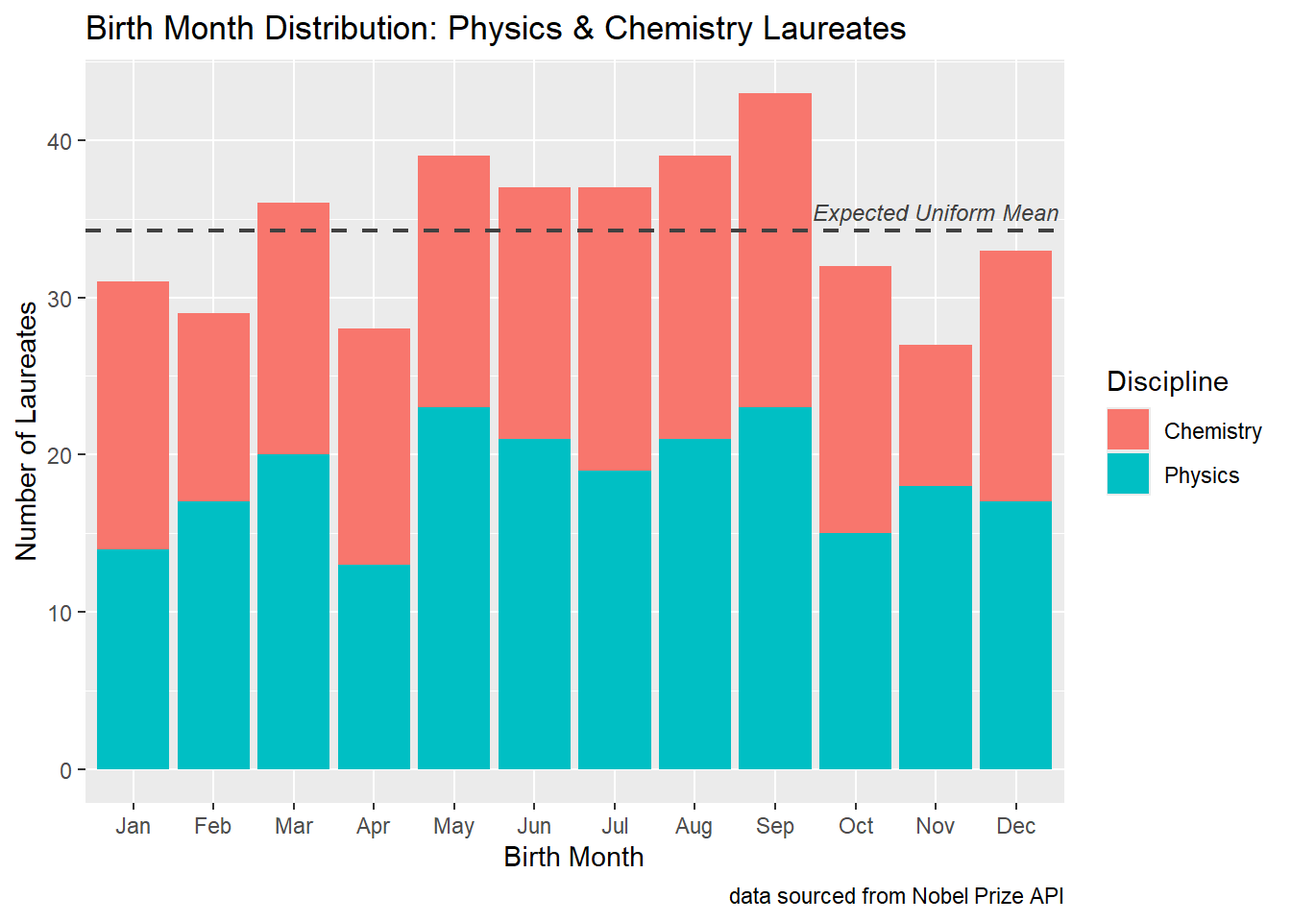
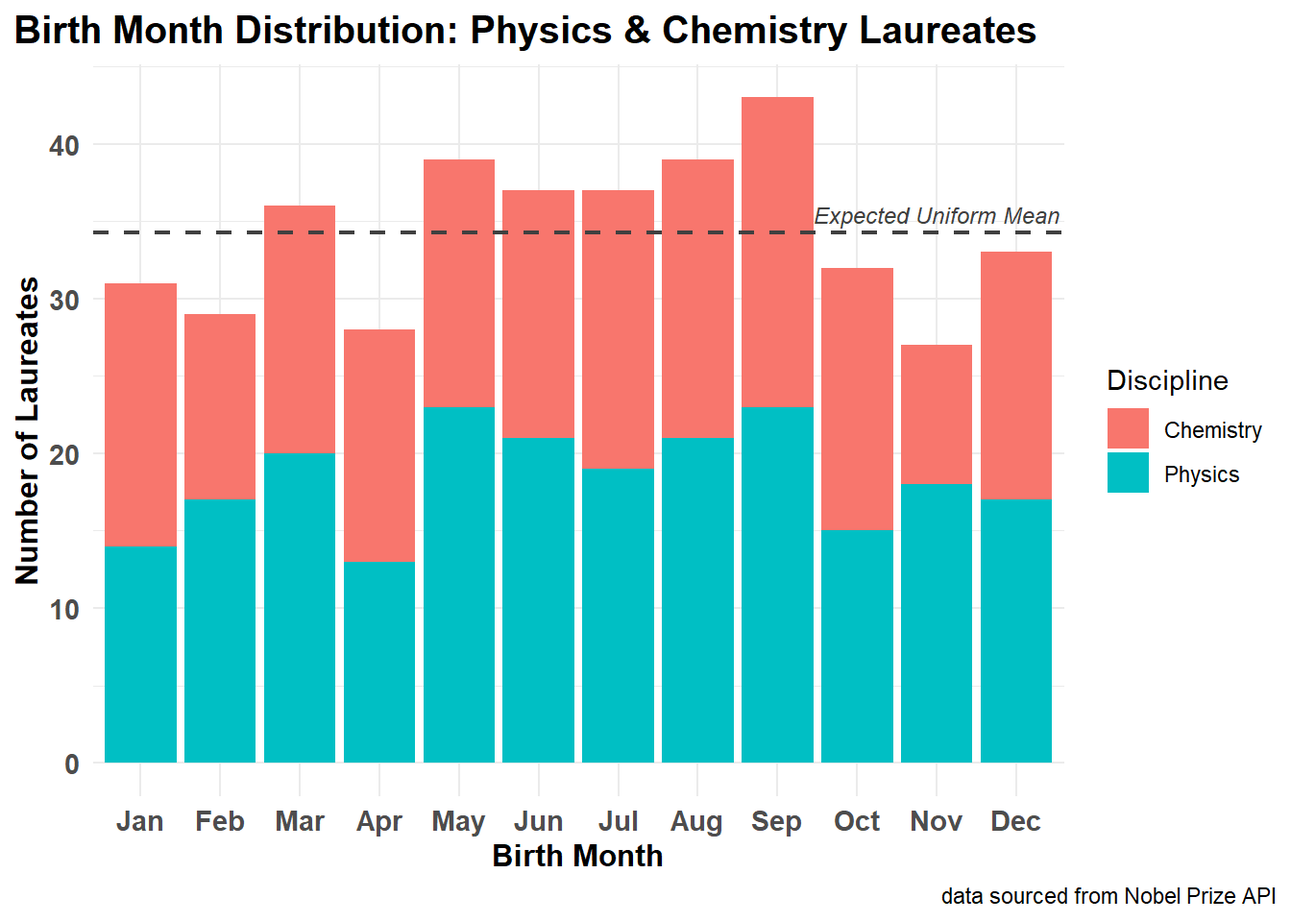
codebase render

diff --git a/Assignment10B-KCH-Codebase.html b/Assignment10B-KCH-Codebase.html
@@ -9,7 +9,7 @@
 <meta name="author" content="Kailot C. Harris">
 <meta name="dcterms.date" content="2026-11-03">
 
-<title>Assignment10B-KCH-Approach</title>
+<title>Assignment10B-KCH-Codebase</title>
 <style>
 /* Default styles provided by pandoc.
 ** See https://pandoc.org/MANUAL.html#variables-for-html for config info.
@@ -327,7 +327,10 @@ window.Quarto = {
   </ul></li>
   </ul></li>
   <li><a href="#findings-and-recommendations" id="toc-findings-and-recommendations" class="nav-link" data-scroll-target="#findings-and-recommendations">Findings and Recommendations</a></li>
-  <li><a href="#cited-works" id="toc-cited-works" class="nav-link" data-scroll-target="#cited-works">Cited Works</a></li>
+  <li><a href="#cited-works" id="toc-cited-works" class="nav-link" data-scroll-target="#cited-works">Cited Works</a>
+  <ul class="collapse">
+  <li><a href="#generative-ai-usage" id="toc-generative-ai-usage" class="nav-link" data-scroll-target="#generative-ai-usage">Generative AI Usage</a></li>
+  </ul></li>
   </ul>
 </nav>
 </div>
@@ -336,7 +339,7 @@ window.Quarto = {
 
 <header id="title-block-header" class="quarto-title-block default">
 <div class="quarto-title">
-<h1 class="title">Assignment10B-KCH-Approach</h1>
+<h1 class="title">Assignment10B-KCH-Codebase</h1>
 </div>
 
 
@@ -367,9 +370,9 @@ window.Quarto = {
 
 <section id="introduction-and-overview" class="level1">
 <h1>Introduction and Overview</h1>
-<p>In this assignment, structured web data acquisition and JSON data reshaping are applied to analyze scientific history via the Nobel Prize Developer Zone API <span class="citation" data-cites="nobelprizeAPI">(<a href="#ref-nobelprizeAPI" role="doc-biblioref">Nobel Prize Outreach AB 2026</a>)</span>.</p>
-<p>Using the Version 2.1 REST API, laureate-level records across the physical sciences (specifically Physics and Chemistry) are ingested. The raw data are parsed from hierarchical, nested JSON documents into rectangular, tidy data frames using the <code>jsonlite</code> <span class="citation" data-cites="jsonlite">(<a href="#ref-jsonlite" role="doc-biblioref">Ooms 2023</a>)</span> and <code>tidyverse</code> <span class="citation" data-cites="tidyverse">(<a href="#ref-tidyverse" role="doc-biblioref">Wickham et al. 2019</a>)</span> ecosystems.</p>
-<p>Beyond standard frequency counts, this study investigates historical mobility, collaboration, and career trajectories of famed scientists. Specifically, this work aims to examine scientific migration (“brain drain”), age distributions at time of recognition, institutional concentration of awards, seasonal birth distributions, and repeat prize winners.</p>
+<p>In this assignment, structured web data acquisition and JSON data reshaping are applied to analyze scientific history via the <a href="https://www.nobelprize.org/about/developer-zone-2/">Nobel Prize Developer Zone API</a> <span class="citation" data-cites="nobelprizeAPI">(<a href="#ref-nobelprizeAPI" role="doc-biblioref">Nobel Prize Outreach AB 2026</a>)</span>.</p>
+<p>Using the Version 2.1 REST API, laureate records across Physics and Chemistry are ingested. The raw data are parsed from hierarchical, nested JSON documents into rectangular, tidy data frames using the <code>jsonlite</code> <span class="citation" data-cites="jsonlite">(<a href="#ref-jsonlite" role="doc-biblioref">Ooms 2023</a>)</span> and <code>tidyverse</code> <span class="citation" data-cites="tidyverse">(<a href="#ref-tidyverse" role="doc-biblioref">Wickham et al. 2019</a>)</span> ecosystems.</p>
+<p>Beyond standard frequency counts, this study investigates five data-driven questions examinining scientific migration (“brain drain”), age distributions at time of recognition, institutional concentration of awards, seasonal birth distributions, and repeat prize winners.</p>
 </section>
 <section id="approach" class="level1">
 <h1>Approach</h1>
@@ -465,7 +468,7 @@ window.Quarto = {
 <span id="cb6-5"><a href="#cb6-5" aria-hidden="true" tabindex="-1"></a>         <span class="at">birth_country =</span> birth<span class="sc">$</span>place<span class="sc">$</span>country<span class="sc">$</span>en,</span>
 <span id="cb6-6"><a href="#cb6-6" aria-hidden="true" tabindex="-1"></a>         <span class="at">nobelPrizes =</span> nobelPrizes,</span>
 <span id="cb6-7"><a href="#cb6-7" aria-hidden="true" tabindex="-1"></a>         <span class="at">.keep =</span> <span class="st">"none"</span></span>
-<span id="cb6-8"><a href="#cb6-8" aria-hidden="true" tabindex="-1"></a>          ) <span class="sc">|&gt;</span> </span>
+<span id="cb6-8"><a href="#cb6-8" aria-hidden="true" tabindex="-1"></a>  ) <span class="sc">|&gt;</span> </span>
 <span id="cb6-9"><a href="#cb6-9" aria-hidden="true" tabindex="-1"></a>  <span class="fu">unnest</span>(nobelPrizes) <span class="sc">|&gt;</span> </span>
 <span id="cb6-10"><a href="#cb6-10" aria-hidden="true" tabindex="-1"></a>  <span class="fu">mutate</span>(</span>
 <span id="cb6-11"><a href="#cb6-11" aria-hidden="true" tabindex="-1"></a>    <span class="at">id =</span> id,</span>
@@ -481,7 +484,7 @@ window.Quarto = {
 </details>
 </div>
 <p>Handling the <code>affiliations</code> column presented a challenge: some laureates had no recorded institution, while others had multiple appointments across different universities. Unnesting this column directly caused row duplication and indexing errors. To fix this, <code>purrr::map_chr()</code> was used to check whether each row was a valid data frame with a name column before pulling the primary English name. If no valid affiliation existed, the function safely returned <code>NA_character_</code>.</p>
-<p>Next, date metrics were derived. When using <code>lubridate::ymd()</code> to parse birth dates, a warning was generated because 11 historical records only contained birth years rather than full dates. To eliminate this warning without dropping rows, base R’s <code>format(as.Date(birth_date), "%b")</code> was used to extract birth months, and the resulting vector was converted to an ordered factor using <code>month.abb</code>. Finally, each laureate’s age at the time of their award and the award decade were computed.</p>
+<p>Next, date metrics were derived. Rather than relying on <code>lubridate::ymd()</code> (which generated warnings on 11 historical records containing only four-digit years) base R’s <code>format(as.Date(birth_date), "%b")</code> and <code>month.abb</code> were used. This cleanly extracts birth months as an ordered factor while preserving missing records as <code>NA</code> without throwing warnings. Finally, each laureate’s age at the time of award and award decade were calculated using basic date arithmetic.</p>
 <div class="cell">
 <details class="code-fold">
 <summary>Code</summary>
@@ -1218,52 +1221,73 @@ window.Quarto = {
 <summary>Code</summary>
 <div class="code-copy-outer-scaffold"><div class="sourceCode cell-code" id="cb20"><pre class="sourceCode r code-with-copy"><code class="sourceCode r"><span id="cb20-1"><a href="#cb20-1" aria-hidden="true" tabindex="-1"></a>expected_per_month <span class="ot">&lt;-</span> <span class="fu">sum</span>(monthly_births<span class="sc">$</span>count) <span class="sc">/</span> <span class="dv">12</span></span>
 <span id="cb20-2"><a href="#cb20-2" aria-hidden="true" tabindex="-1"></a></span>
-<span id="cb20-3"><a href="#cb20-3" aria-hidden="true" tabindex="-1"></a>chisq_res <span class="ot">&lt;-</span> <span class="fu">chisq.test</span>(monthly_totals<span class="sc">$</span>total)</span>
-<span id="cb20-4"><a href="#cb20-4" aria-hidden="true" tabindex="-1"></a></span>
-<span id="cb20-5"><a href="#cb20-5" aria-hidden="true" tabindex="-1"></a>chisq_res</span></code></pre></div><button title="Copy to Clipboard" class="code-copy-button"><i class="bi"></i></button></div>
-</details>
-<div class="cell-output cell-output-stdout">
-<pre><code>
-    Chi-squared test for given probabilities
-
-data:  monthly_totals$total
-X-squared = 8.0657, df = 11, p-value = 0.7074</code></pre>
-</div>
-<details class="code-fold">
-<summary>Code</summary>
-<div class="code-copy-outer-scaffold"><div class="sourceCode cell-code" id="cb22"><pre class="sourceCode r code-with-copy"><code class="sourceCode r"><span id="cb22-1"><a href="#cb22-1" aria-hidden="true" tabindex="-1"></a>monthly_births <span class="sc">|&gt;</span> <span class="fu">ggplot</span>(<span class="fu">aes</span>(<span class="at">x =</span> birth_month, </span>
-<span id="cb22-2"><a href="#cb22-2" aria-hidden="true" tabindex="-1"></a>                             <span class="at">y =</span> count, </span>
-<span id="cb22-3"><a href="#cb22-3" aria-hidden="true" tabindex="-1"></a>                             <span class="at">fill =</span> category)) <span class="sc">+</span></span>
-<span id="cb22-4"><a href="#cb22-4" aria-hidden="true" tabindex="-1"></a>  <span class="fu">geom_col</span>() <span class="sc">+</span></span>
-<span id="cb22-5"><a href="#cb22-5" aria-hidden="true" tabindex="-1"></a>  <span class="fu">geom_hline</span>(</span>
-<span id="cb22-6"><a href="#cb22-6" aria-hidden="true" tabindex="-1"></a>    <span class="at">yintercept =</span> expected_per_month,</span>
-<span id="cb22-7"><a href="#cb22-7" aria-hidden="true" tabindex="-1"></a>    <span class="at">linetype =</span> <span class="st">"dashed"</span>,</span>
-<span id="cb22-8"><a href="#cb22-8" aria-hidden="true" tabindex="-1"></a>    <span class="at">color =</span> <span class="st">"#404040"</span>,</span>
-<span id="cb22-9"><a href="#cb22-9" aria-hidden="true" tabindex="-1"></a>    <span class="at">linewidth =</span> <span class="fl">0.8</span></span>
-<span id="cb22-10"><a href="#cb22-10" aria-hidden="true" tabindex="-1"></a>  ) <span class="sc">+</span></span>
-<span id="cb22-11"><a href="#cb22-11" aria-hidden="true" tabindex="-1"></a>  <span class="fu">annotate</span>(</span>
-<span id="cb22-12"><a href="#cb22-12" aria-hidden="true" tabindex="-1"></a>    <span class="st">"text"</span>,</span>
-<span id="cb22-13"><a href="#cb22-13" aria-hidden="true" tabindex="-1"></a>    <span class="at">x =</span> <span class="fl">11.0</span>,</span>
-<span id="cb22-14"><a href="#cb22-14" aria-hidden="true" tabindex="-1"></a>    <span class="at">y =</span> expected_per_month <span class="sc">+</span> <span class="fl">1.2</span>,</span>
-<span id="cb22-15"><a href="#cb22-15" aria-hidden="true" tabindex="-1"></a>    <span class="at">label =</span> <span class="st">"Expected Uniform Mean"</span>,</span>
-<span id="cb22-16"><a href="#cb22-16" aria-hidden="true" tabindex="-1"></a>    <span class="at">color =</span> <span class="st">"#404040"</span>,</span>
-<span id="cb22-17"><a href="#cb22-17" aria-hidden="true" tabindex="-1"></a>    <span class="at">size =</span> <span class="fl">3.2</span>,</span>
-<span id="cb22-18"><a href="#cb22-18" aria-hidden="true" tabindex="-1"></a>    <span class="at">fontface =</span> <span class="st">"italic"</span></span>
-<span id="cb22-19"><a href="#cb22-19" aria-hidden="true" tabindex="-1"></a>  ) <span class="sc">+</span></span>
-<span id="cb22-20"><a href="#cb22-20" aria-hidden="true" tabindex="-1"></a>  <span class="fu">labs</span>(</span>
-<span id="cb22-21"><a href="#cb22-21" aria-hidden="true" tabindex="-1"></a>    <span class="at">title =</span> <span class="st">"Birth Month Distribution: Physics &amp; Chemistry Laureates"</span>,</span>
-<span id="cb22-22"><a href="#cb22-22" aria-hidden="true" tabindex="-1"></a>    <span class="at">caption =</span> <span class="st">"data sourced from Nobel Prize API"</span>,</span>
-<span id="cb22-23"><a href="#cb22-23" aria-hidden="true" tabindex="-1"></a>    <span class="at">x =</span> <span class="st">"Birth Month"</span>,</span>
-<span id="cb22-24"><a href="#cb22-24" aria-hidden="true" tabindex="-1"></a>    <span class="at">y =</span> <span class="st">"Number of Laureates"</span>,</span>
-<span id="cb22-25"><a href="#cb22-25" aria-hidden="true" tabindex="-1"></a>    <span class="at">fill =</span> <span class="st">"Discipline"</span></span>
-<span id="cb22-26"><a href="#cb22-26" aria-hidden="true" tabindex="-1"></a>  )</span></code></pre></div><button title="Copy to Clipboard" class="code-copy-button"><i class="bi"></i></button></div>
+<span id="cb20-3"><a href="#cb20-3" aria-hidden="true" tabindex="-1"></a>monthly_births <span class="sc">|&gt;</span> <span class="fu">ggplot</span>(<span class="fu">aes</span>(<span class="at">x =</span> birth_month, </span>
+<span id="cb20-4"><a href="#cb20-4" aria-hidden="true" tabindex="-1"></a>                             <span class="at">y =</span> count, </span>
+<span id="cb20-5"><a href="#cb20-5" aria-hidden="true" tabindex="-1"></a>                             <span class="at">fill =</span> category)) <span class="sc">+</span></span>
+<span id="cb20-6"><a href="#cb20-6" aria-hidden="true" tabindex="-1"></a>  <span class="fu">geom_col</span>() <span class="sc">+</span></span>
+<span id="cb20-7"><a href="#cb20-7" aria-hidden="true" tabindex="-1"></a>  <span class="fu">geom_hline</span>(</span>
+<span id="cb20-8"><a href="#cb20-8" aria-hidden="true" tabindex="-1"></a>    <span class="at">yintercept =</span> expected_per_month,</span>
+<span id="cb20-9"><a href="#cb20-9" aria-hidden="true" tabindex="-1"></a>    <span class="at">linetype =</span> <span class="st">"dashed"</span>,</span>
+<span id="cb20-10"><a href="#cb20-10" aria-hidden="true" tabindex="-1"></a>    <span class="at">color =</span> <span class="st">"#404040"</span>,</span>
+<span id="cb20-11"><a href="#cb20-11" aria-hidden="true" tabindex="-1"></a>    <span class="at">linewidth =</span> <span class="fl">0.8</span></span>
+<span id="cb20-12"><a href="#cb20-12" aria-hidden="true" tabindex="-1"></a>  ) <span class="sc">+</span></span>
+<span id="cb20-13"><a href="#cb20-13" aria-hidden="true" tabindex="-1"></a>  <span class="fu">annotate</span>(</span>
+<span id="cb20-14"><a href="#cb20-14" aria-hidden="true" tabindex="-1"></a>    <span class="st">"text"</span>,</span>
+<span id="cb20-15"><a href="#cb20-15" aria-hidden="true" tabindex="-1"></a>    <span class="at">x =</span> <span class="fl">11.0</span>,</span>
+<span id="cb20-16"><a href="#cb20-16" aria-hidden="true" tabindex="-1"></a>    <span class="at">y =</span> expected_per_month <span class="sc">+</span> <span class="fl">1.2</span>,</span>
+<span id="cb20-17"><a href="#cb20-17" aria-hidden="true" tabindex="-1"></a>    <span class="at">label =</span> <span class="st">"Expected Uniform Mean"</span>,</span>
+<span id="cb20-18"><a href="#cb20-18" aria-hidden="true" tabindex="-1"></a>    <span class="at">color =</span> <span class="st">"#404040"</span>,</span>
+<span id="cb20-19"><a href="#cb20-19" aria-hidden="true" tabindex="-1"></a>    <span class="at">size =</span> <span class="fl">3.2</span>,</span>
+<span id="cb20-20"><a href="#cb20-20" aria-hidden="true" tabindex="-1"></a>    <span class="at">fontface =</span> <span class="st">"italic"</span></span>
+<span id="cb20-21"><a href="#cb20-21" aria-hidden="true" tabindex="-1"></a>  ) <span class="sc">+</span></span>
+<span id="cb20-22"><a href="#cb20-22" aria-hidden="true" tabindex="-1"></a>  <span class="fu">labs</span>(</span>
+<span id="cb20-23"><a href="#cb20-23" aria-hidden="true" tabindex="-1"></a>    <span class="at">title =</span> <span class="st">"Birth Month Distribution: Physics &amp; Chemistry Laureates"</span>,</span>
+<span id="cb20-24"><a href="#cb20-24" aria-hidden="true" tabindex="-1"></a>    <span class="at">caption =</span> <span class="st">"data sourced from Nobel Prize API"</span>,</span>
+<span id="cb20-25"><a href="#cb20-25" aria-hidden="true" tabindex="-1"></a>    <span class="at">x =</span> <span class="st">"Birth Month"</span>,</span>
+<span id="cb20-26"><a href="#cb20-26" aria-hidden="true" tabindex="-1"></a>    <span class="at">y =</span> <span class="st">"Number of Laureates"</span>,</span>
+<span id="cb20-27"><a href="#cb20-27" aria-hidden="true" tabindex="-1"></a>    <span class="at">fill =</span> <span class="st">"Discipline"</span></span>
+<span id="cb20-28"><a href="#cb20-28" aria-hidden="true" tabindex="-1"></a>  ) <span class="sc">+</span></span>
+<span id="cb20-29"><a href="#cb20-29" aria-hidden="true" tabindex="-1"></a>  <span class="fu">theme_standard</span>()</span></code></pre></div><button title="Copy to Clipboard" class="code-copy-button"><i class="bi"></i></button></div>
 </details>
 <div class="cell-output-display">
-<div>
+<div class="quarto-figure quarto-figure-center">
 <figure class="figure">
 <p><img src="Assignment10B-KCH-Codebase_files/figure-html/question-4-plot-1.png" class="img-fluid figure-img" width="672"></p>
+<figcaption>Birth Month Distribution: Physics &amp; Chemistry Laureates</figcaption>
 </figure>
 </div>
+</div>
+</div>
+<div class="cell">
+<details class="code-fold">
+<summary>Code</summary>
+<div class="code-copy-outer-scaffold"><div class="sourceCode cell-code" id="cb21"><pre class="sourceCode r code-with-copy"><code class="sourceCode r"><span id="cb21-1"><a href="#cb21-1" aria-hidden="true" tabindex="-1"></a>chisq_res <span class="ot">&lt;-</span> <span class="fu">chisq.test</span>(monthly_totals<span class="sc">$</span>total)</span>
+<span id="cb21-2"><a href="#cb21-2" aria-hidden="true" tabindex="-1"></a></span>
+<span id="cb21-3"><a href="#cb21-3" aria-hidden="true" tabindex="-1"></a>chisq_table <span class="ot">&lt;-</span> broom<span class="sc">::</span><span class="fu">tidy</span>(chisq_res) <span class="sc">|&gt;</span></span>
+<span id="cb21-4"><a href="#cb21-4" aria-hidden="true" tabindex="-1"></a>  <span class="fu">select</span>(<span class="st">`</span><span class="at">p_value</span><span class="st">`</span> <span class="ot">=</span> p.value,</span>
+<span id="cb21-5"><a href="#cb21-5" aria-hidden="true" tabindex="-1"></a>         <span class="st">`</span><span class="at">dof</span><span class="st">`</span> <span class="ot">=</span> parameter,</span>
+<span id="cb21-6"><a href="#cb21-6" aria-hidden="true" tabindex="-1"></a>         <span class="st">`</span><span class="at">method</span><span class="st">`</span> <span class="ot">=</span> method)</span>
+<span id="cb21-7"><a href="#cb21-7" aria-hidden="true" tabindex="-1"></a></span>
+<span id="cb21-8"><a href="#cb21-8" aria-hidden="true" tabindex="-1"></a>knitr<span class="sc">::</span><span class="fu">kable</span>(chisq_table, <span class="at">caption =</span> <span class="st">"Goodness-of-Fit Test for Monthly Birth Uniformity"</span>)</span></code></pre></div><button title="Copy to Clipboard" class="code-copy-button"><i class="bi"></i></button></div>
+</details>
+<div class="cell-output-display">
+<table class="caption-top table table-sm table-striped small">
+<caption>Goodness-of-Fit Test for Monthly Birth Uniformity</caption>
+<thead>
+<tr class="header">
+<th style="text-align: right;">p_value</th>
+<th style="text-align: right;">dof</th>
+<th style="text-align: left;">method</th>
+</tr>
+</thead>
+<tbody>
+<tr class="odd">
+<td style="text-align: right;">0.7074073</td>
+<td style="text-align: right;">11</td>
+<td style="text-align: left;">Chi-squared test for given probabilities</td>
+</tr>
+</tbody>
+</table>
 </div>
 </div>
 <p>The birth month distribution remained relatively uniform, ranging from a low of 27 laureates in November to a high of 43 in September. A Chi-square goodness-of-fit test was conducted on the monthly totals, yielding (<span class="math inline">\(\chi^2 = 8.07, p = 0.71\)</span>). Because the p-value is well above the 0.05 threshold, the null hypothesis is not rejected, confirming that birth month does not have a statistically significant relationship with winning a Nobel Prize in Physics or Chemistry.</p>
@@ -1277,37 +1301,37 @@ X-squared = 8.0657, df = 11, p-value = 0.7074</code></pre>
 <div class="cell">
 <details class="code-fold">
 <summary>Code</summary>
-<div class="code-copy-outer-scaffold"><div class="sourceCode cell-code" id="cb23"><pre class="sourceCode r code-with-copy"><code class="sourceCode r"><span id="cb23-1"><a href="#cb23-1" aria-hidden="true" tabindex="-1"></a>repeat_laureates <span class="ot">&lt;-</span> laureates_tidy <span class="sc">|&gt;</span></span>
-<span id="cb23-2"><a href="#cb23-2" aria-hidden="true" tabindex="-1"></a>  <span class="fu">group_by</span>(id, </span>
-<span id="cb23-3"><a href="#cb23-3" aria-hidden="true" tabindex="-1"></a>           known_name) <span class="sc">|&gt;</span></span>
-<span id="cb23-4"><a href="#cb23-4" aria-hidden="true" tabindex="-1"></a>  <span class="fu">filter</span>(<span class="fu">n</span>() <span class="sc">&gt;</span> <span class="dv">1</span>) <span class="sc">|&gt;</span></span>
-<span id="cb23-5"><a href="#cb23-5" aria-hidden="true" tabindex="-1"></a>  <span class="fu">arrange</span>(award_year, </span>
-<span id="cb23-6"><a href="#cb23-6" aria-hidden="true" tabindex="-1"></a>          <span class="at">.by_group =</span> <span class="cn">TRUE</span>) <span class="sc">|&gt;</span></span>
-<span id="cb23-7"><a href="#cb23-7" aria-hidden="true" tabindex="-1"></a>  <span class="fu">summarize</span>(</span>
-<span id="cb23-8"><a href="#cb23-8" aria-hidden="true" tabindex="-1"></a>    <span class="at">prizes_count =</span> <span class="fu">n</span>(),</span>
-<span id="cb23-9"><a href="#cb23-9" aria-hidden="true" tabindex="-1"></a>    <span class="at">categories =</span> <span class="fu">paste</span>(category, </span>
-<span id="cb23-10"><a href="#cb23-10" aria-hidden="true" tabindex="-1"></a>                       <span class="at">collapse =</span> <span class="st">" &amp; "</span>),</span>
-<span id="cb23-11"><a href="#cb23-11" aria-hidden="true" tabindex="-1"></a>    <span class="at">years =</span> <span class="fu">paste</span>(award_year, </span>
-<span id="cb23-12"><a href="#cb23-12" aria-hidden="true" tabindex="-1"></a>                  <span class="at">collapse =</span> <span class="st">", "</span>),</span>
-<span id="cb23-13"><a href="#cb23-13" aria-hidden="true" tabindex="-1"></a>    <span class="at">gap_years =</span> <span class="fu">max</span>(award_year) <span class="sc">-</span> <span class="fu">min</span>(award_year),</span>
-<span id="cb23-14"><a href="#cb23-14" aria-hidden="true" tabindex="-1"></a>    <span class="at">first_affiliation =</span> <span class="fu">first</span>(affiliation_name),</span>
-<span id="cb23-15"><a href="#cb23-15" aria-hidden="true" tabindex="-1"></a>    <span class="at">second_affiliation =</span> <span class="fu">last</span>(affiliation_name),</span>
-<span id="cb23-16"><a href="#cb23-16" aria-hidden="true" tabindex="-1"></a>    <span class="at">.groups =</span> <span class="st">"drop"</span></span>
-<span id="cb23-17"><a href="#cb23-17" aria-hidden="true" tabindex="-1"></a>  ) <span class="sc">|&gt;</span></span>
-<span id="cb23-18"><a href="#cb23-18" aria-hidden="true" tabindex="-1"></a>  <span class="fu">arrange</span>(<span class="fu">desc</span>(prizes_count), </span>
-<span id="cb23-19"><a href="#cb23-19" aria-hidden="true" tabindex="-1"></a>          gap_years)</span>
-<span id="cb23-20"><a href="#cb23-20" aria-hidden="true" tabindex="-1"></a></span>
-<span id="cb23-21"><a href="#cb23-21" aria-hidden="true" tabindex="-1"></a>knitr<span class="sc">::</span><span class="fu">kable</span>(</span>
-<span id="cb23-22"><a href="#cb23-22" aria-hidden="true" tabindex="-1"></a>  repeat_laureates <span class="sc">|&gt;</span> </span>
-<span id="cb23-23"><a href="#cb23-23" aria-hidden="true" tabindex="-1"></a>    <span class="fu">select</span>(</span>
-<span id="cb23-24"><a href="#cb23-24" aria-hidden="true" tabindex="-1"></a>      <span class="at">Laureate =</span> known_name,</span>
-<span id="cb23-25"><a href="#cb23-25" aria-hidden="true" tabindex="-1"></a>      <span class="st">`</span><span class="at">Prizes Won</span><span class="st">`</span> <span class="ot">=</span> prizes_count,</span>
-<span id="cb23-26"><a href="#cb23-26" aria-hidden="true" tabindex="-1"></a>      <span class="st">`</span><span class="at">Discipline(s)</span><span class="st">`</span> <span class="ot">=</span> categories,</span>
-<span id="cb23-27"><a href="#cb23-27" aria-hidden="true" tabindex="-1"></a>      <span class="st">`</span><span class="at">Years Awarded</span><span class="st">`</span> <span class="ot">=</span> years,</span>
-<span id="cb23-28"><a href="#cb23-28" aria-hidden="true" tabindex="-1"></a>      <span class="st">`</span><span class="at">Gap (Years)</span><span class="st">`</span> <span class="ot">=</span> gap_years</span>
-<span id="cb23-29"><a href="#cb23-29" aria-hidden="true" tabindex="-1"></a>    ),</span>
-<span id="cb23-30"><a href="#cb23-30" aria-hidden="true" tabindex="-1"></a>  <span class="at">caption =</span> <span class="st">"Repeat and Cross-Disciplinary Laureates in Physics and Chemistry"</span></span>
-<span id="cb23-31"><a href="#cb23-31" aria-hidden="true" tabindex="-1"></a>)</span></code></pre></div><button title="Copy to Clipboard" class="code-copy-button"><i class="bi"></i></button></div>
+<div class="code-copy-outer-scaffold"><div class="sourceCode cell-code" id="cb22"><pre class="sourceCode r code-with-copy"><code class="sourceCode r"><span id="cb22-1"><a href="#cb22-1" aria-hidden="true" tabindex="-1"></a>repeat_laureates <span class="ot">&lt;-</span> laureates_tidy <span class="sc">|&gt;</span></span>
+<span id="cb22-2"><a href="#cb22-2" aria-hidden="true" tabindex="-1"></a>  <span class="fu">group_by</span>(id, </span>
+<span id="cb22-3"><a href="#cb22-3" aria-hidden="true" tabindex="-1"></a>           known_name) <span class="sc">|&gt;</span></span>
+<span id="cb22-4"><a href="#cb22-4" aria-hidden="true" tabindex="-1"></a>  <span class="fu">filter</span>(<span class="fu">n</span>() <span class="sc">&gt;</span> <span class="dv">1</span>) <span class="sc">|&gt;</span></span>
+<span id="cb22-5"><a href="#cb22-5" aria-hidden="true" tabindex="-1"></a>  <span class="fu">arrange</span>(award_year, </span>
+<span id="cb22-6"><a href="#cb22-6" aria-hidden="true" tabindex="-1"></a>          <span class="at">.by_group =</span> <span class="cn">TRUE</span>) <span class="sc">|&gt;</span></span>
+<span id="cb22-7"><a href="#cb22-7" aria-hidden="true" tabindex="-1"></a>  <span class="fu">summarize</span>(</span>
+<span id="cb22-8"><a href="#cb22-8" aria-hidden="true" tabindex="-1"></a>    <span class="at">prizes_count =</span> <span class="fu">n</span>(),</span>
+<span id="cb22-9"><a href="#cb22-9" aria-hidden="true" tabindex="-1"></a>    <span class="at">categories =</span> <span class="fu">paste</span>(category, </span>
+<span id="cb22-10"><a href="#cb22-10" aria-hidden="true" tabindex="-1"></a>                       <span class="at">collapse =</span> <span class="st">" &amp; "</span>),</span>
+<span id="cb22-11"><a href="#cb22-11" aria-hidden="true" tabindex="-1"></a>    <span class="at">years =</span> <span class="fu">paste</span>(award_year, </span>
+<span id="cb22-12"><a href="#cb22-12" aria-hidden="true" tabindex="-1"></a>                  <span class="at">collapse =</span> <span class="st">", "</span>),</span>
+<span id="cb22-13"><a href="#cb22-13" aria-hidden="true" tabindex="-1"></a>    <span class="at">gap_years =</span> <span class="fu">max</span>(award_year) <span class="sc">-</span> <span class="fu">min</span>(award_year),</span>
+<span id="cb22-14"><a href="#cb22-14" aria-hidden="true" tabindex="-1"></a>    <span class="at">first_affiliation =</span> <span class="fu">first</span>(affiliation_name),</span>
+<span id="cb22-15"><a href="#cb22-15" aria-hidden="true" tabindex="-1"></a>    <span class="at">second_affiliation =</span> <span class="fu">last</span>(affiliation_name),</span>
+<span id="cb22-16"><a href="#cb22-16" aria-hidden="true" tabindex="-1"></a>    <span class="at">.groups =</span> <span class="st">"drop"</span></span>
+<span id="cb22-17"><a href="#cb22-17" aria-hidden="true" tabindex="-1"></a>  ) <span class="sc">|&gt;</span></span>
+<span id="cb22-18"><a href="#cb22-18" aria-hidden="true" tabindex="-1"></a>  <span class="fu">arrange</span>(<span class="fu">desc</span>(prizes_count), </span>
+<span id="cb22-19"><a href="#cb22-19" aria-hidden="true" tabindex="-1"></a>          gap_years)</span>
+<span id="cb22-20"><a href="#cb22-20" aria-hidden="true" tabindex="-1"></a></span>
+<span id="cb22-21"><a href="#cb22-21" aria-hidden="true" tabindex="-1"></a>knitr<span class="sc">::</span><span class="fu">kable</span>(</span>
+<span id="cb22-22"><a href="#cb22-22" aria-hidden="true" tabindex="-1"></a>  repeat_laureates <span class="sc">|&gt;</span> </span>
+<span id="cb22-23"><a href="#cb22-23" aria-hidden="true" tabindex="-1"></a>    <span class="fu">select</span>(</span>
+<span id="cb22-24"><a href="#cb22-24" aria-hidden="true" tabindex="-1"></a>      <span class="at">Laureate =</span> known_name,</span>
+<span id="cb22-25"><a href="#cb22-25" aria-hidden="true" tabindex="-1"></a>      <span class="st">`</span><span class="at">Prizes Won</span><span class="st">`</span> <span class="ot">=</span> prizes_count,</span>
+<span id="cb22-26"><a href="#cb22-26" aria-hidden="true" tabindex="-1"></a>      <span class="st">`</span><span class="at">Discipline(s)</span><span class="st">`</span> <span class="ot">=</span> categories,</span>
+<span id="cb22-27"><a href="#cb22-27" aria-hidden="true" tabindex="-1"></a>      <span class="st">`</span><span class="at">Years Awarded</span><span class="st">`</span> <span class="ot">=</span> years,</span>
+<span id="cb22-28"><a href="#cb22-28" aria-hidden="true" tabindex="-1"></a>      <span class="st">`</span><span class="at">Gap (Years)</span><span class="st">`</span> <span class="ot">=</span> gap_years</span>
+<span id="cb22-29"><a href="#cb22-29" aria-hidden="true" tabindex="-1"></a>    ),</span>
+<span id="cb22-30"><a href="#cb22-30" aria-hidden="true" tabindex="-1"></a>  <span class="at">caption =</span> <span class="st">"Repeat and Cross-Disciplinary Laureates in Physics and Chemistry"</span></span>
+<span id="cb22-31"><a href="#cb22-31" aria-hidden="true" tabindex="-1"></a>)</span></code></pre></div><button title="Copy to Clipboard" class="code-copy-button"><i class="bi"></i></button></div>
 </details>
 <div class="cell-output-display">
 <table class="caption-top table table-sm table-striped small">
@@ -1364,37 +1388,38 @@ X-squared = 8.0657, df = 11, p-value = 0.7074</code></pre>
 <div class="cell">
 <details class="code-fold">
 <summary>Code</summary>
-<div class="code-copy-outer-scaffold"><div class="sourceCode cell-code" id="cb24"><pre class="sourceCode r code-with-copy"><code class="sourceCode r"><span id="cb24-1"><a href="#cb24-1" aria-hidden="true" tabindex="-1"></a>p5_data <span class="ot">&lt;-</span> laureates_tidy <span class="sc">|&gt;</span></span>
-<span id="cb24-2"><a href="#cb24-2" aria-hidden="true" tabindex="-1"></a>  <span class="fu">semi_join</span>(repeat_laureates, <span class="at">by =</span> <span class="st">"id"</span>) <span class="sc">|&gt;</span></span>
-<span id="cb24-3"><a href="#cb24-3" aria-hidden="true" tabindex="-1"></a>  <span class="fu">arrange</span>(known_name, award_year)</span>
-<span id="cb24-4"><a href="#cb24-4" aria-hidden="true" tabindex="-1"></a></span>
-<span id="cb24-5"><a href="#cb24-5" aria-hidden="true" tabindex="-1"></a>p5_data <span class="sc">|&gt;</span> <span class="fu">ggplot</span>(<span class="fu">aes</span>(<span class="at">x =</span> award_year, </span>
-<span id="cb24-6"><a href="#cb24-6" aria-hidden="true" tabindex="-1"></a>                      <span class="at">y =</span> <span class="fu">fct_reorder</span>(known_name, </span>
-<span id="cb24-7"><a href="#cb24-7" aria-hidden="true" tabindex="-1"></a>                                      award_year, </span>
-<span id="cb24-8"><a href="#cb24-8" aria-hidden="true" tabindex="-1"></a>                                      min))) <span class="sc">+</span></span>
-<span id="cb24-9"><a href="#cb24-9" aria-hidden="true" tabindex="-1"></a>  <span class="fu">geom_line</span>(<span class="fu">aes</span>(<span class="at">group =</span> known_name), </span>
-<span id="cb24-10"><a href="#cb24-10" aria-hidden="true" tabindex="-1"></a>            <span class="at">color =</span> <span class="st">"gray60"</span>,</span>
-<span id="cb24-11"><a href="#cb24-11" aria-hidden="true" tabindex="-1"></a>            <span class="at">linewidth =</span> <span class="fl">1.2</span>) <span class="sc">+</span></span>
-<span id="cb24-12"><a href="#cb24-12" aria-hidden="true" tabindex="-1"></a>  <span class="fu">geom_point</span>(<span class="fu">aes</span>(<span class="at">color =</span> category), </span>
-<span id="cb24-13"><a href="#cb24-13" aria-hidden="true" tabindex="-1"></a>             <span class="at">size =</span> <span class="dv">4</span>) <span class="sc">+</span></span>
-<span id="cb24-14"><a href="#cb24-14" aria-hidden="true" tabindex="-1"></a>  <span class="fu">geom_text</span>(<span class="fu">aes</span>(<span class="at">label =</span> award_year),</span>
-<span id="cb24-15"><a href="#cb24-15" aria-hidden="true" tabindex="-1"></a>            <span class="at">vjust =</span> <span class="sc">-</span><span class="fl">1.2</span>,</span>
-<span id="cb24-16"><a href="#cb24-16" aria-hidden="true" tabindex="-1"></a>            <span class="at">hjust =</span> <span class="fl">0.5</span>,</span>
-<span id="cb24-17"><a href="#cb24-17" aria-hidden="true" tabindex="-1"></a>            <span class="at">size =</span> <span class="fl">3.3</span>, </span>
-<span id="cb24-18"><a href="#cb24-18" aria-hidden="true" tabindex="-1"></a>            <span class="at">fontface =</span> <span class="st">"bold"</span>) <span class="sc">+</span></span>
-<span id="cb24-19"><a href="#cb24-19" aria-hidden="true" tabindex="-1"></a>  <span class="fu">labs</span>(</span>
-<span id="cb24-20"><a href="#cb24-20" aria-hidden="true" tabindex="-1"></a>    <span class="at">title =</span> <span class="st">"Marie Curie is the Only Multi-Discipline Awardee"</span>,</span>
-<span id="cb24-21"><a href="#cb24-21" aria-hidden="true" tabindex="-1"></a>    <span class="at">caption =</span> <span class="st">"data sourced from Nobel Prize API"</span>,</span>
-<span id="cb24-22"><a href="#cb24-22" aria-hidden="true" tabindex="-1"></a>    <span class="at">x =</span> <span class="st">"Award Year"</span>,</span>
-<span id="cb24-23"><a href="#cb24-23" aria-hidden="true" tabindex="-1"></a>    <span class="at">y =</span> <span class="cn">NULL</span>,</span>
-<span id="cb24-24"><a href="#cb24-24" aria-hidden="true" tabindex="-1"></a>    <span class="at">color =</span> <span class="st">"Discipline"</span></span>
-<span id="cb24-25"><a href="#cb24-25" aria-hidden="true" tabindex="-1"></a>  ) <span class="sc">+</span></span>
-<span id="cb24-26"><a href="#cb24-26" aria-hidden="true" tabindex="-1"></a>  <span class="fu">theme_standard</span>()</span></code></pre></div><button title="Copy to Clipboard" class="code-copy-button"><i class="bi"></i></button></div>
+<div class="code-copy-outer-scaffold"><div class="sourceCode cell-code" id="cb23"><pre class="sourceCode r code-with-copy"><code class="sourceCode r"><span id="cb23-1"><a href="#cb23-1" aria-hidden="true" tabindex="-1"></a>p5_data <span class="ot">&lt;-</span> laureates_tidy <span class="sc">|&gt;</span></span>
+<span id="cb23-2"><a href="#cb23-2" aria-hidden="true" tabindex="-1"></a>  <span class="fu">semi_join</span>(repeat_laureates, <span class="at">by =</span> <span class="st">"id"</span>) <span class="sc">|&gt;</span></span>
+<span id="cb23-3"><a href="#cb23-3" aria-hidden="true" tabindex="-1"></a>  <span class="fu">arrange</span>(known_name, award_year)</span>
+<span id="cb23-4"><a href="#cb23-4" aria-hidden="true" tabindex="-1"></a></span>
+<span id="cb23-5"><a href="#cb23-5" aria-hidden="true" tabindex="-1"></a>p5_data <span class="sc">|&gt;</span> <span class="fu">ggplot</span>(<span class="fu">aes</span>(<span class="at">x =</span> award_year, </span>
+<span id="cb23-6"><a href="#cb23-6" aria-hidden="true" tabindex="-1"></a>                      <span class="at">y =</span> <span class="fu">fct_reorder</span>(known_name, </span>
+<span id="cb23-7"><a href="#cb23-7" aria-hidden="true" tabindex="-1"></a>                                      award_year, </span>
+<span id="cb23-8"><a href="#cb23-8" aria-hidden="true" tabindex="-1"></a>                                      min))) <span class="sc">+</span></span>
+<span id="cb23-9"><a href="#cb23-9" aria-hidden="true" tabindex="-1"></a>  <span class="fu">geom_line</span>(<span class="fu">aes</span>(<span class="at">group =</span> known_name), </span>
+<span id="cb23-10"><a href="#cb23-10" aria-hidden="true" tabindex="-1"></a>            <span class="at">color =</span> <span class="st">"gray60"</span>,</span>
+<span id="cb23-11"><a href="#cb23-11" aria-hidden="true" tabindex="-1"></a>            <span class="at">linewidth =</span> <span class="fl">1.2</span>) <span class="sc">+</span></span>
+<span id="cb23-12"><a href="#cb23-12" aria-hidden="true" tabindex="-1"></a>  <span class="fu">geom_point</span>(<span class="fu">aes</span>(<span class="at">color =</span> category), </span>
+<span id="cb23-13"><a href="#cb23-13" aria-hidden="true" tabindex="-1"></a>             <span class="at">size =</span> <span class="dv">4</span>) <span class="sc">+</span></span>
+<span id="cb23-14"><a href="#cb23-14" aria-hidden="true" tabindex="-1"></a>  <span class="fu">geom_text</span>(<span class="fu">aes</span>(<span class="at">label =</span> award_year),</span>
+<span id="cb23-15"><a href="#cb23-15" aria-hidden="true" tabindex="-1"></a>            <span class="at">vjust =</span> <span class="sc">-</span><span class="fl">1.2</span>,</span>
+<span id="cb23-16"><a href="#cb23-16" aria-hidden="true" tabindex="-1"></a>            <span class="at">hjust =</span> <span class="fl">0.5</span>,</span>
+<span id="cb23-17"><a href="#cb23-17" aria-hidden="true" tabindex="-1"></a>            <span class="at">size =</span> <span class="fl">3.3</span>, </span>
+<span id="cb23-18"><a href="#cb23-18" aria-hidden="true" tabindex="-1"></a>            <span class="at">fontface =</span> <span class="st">"bold"</span>) <span class="sc">+</span></span>
+<span id="cb23-19"><a href="#cb23-19" aria-hidden="true" tabindex="-1"></a>  <span class="fu">labs</span>(</span>
+<span id="cb23-20"><a href="#cb23-20" aria-hidden="true" tabindex="-1"></a>    <span class="at">title =</span> <span class="st">"Marie Curie is the Only Multi-Discipline Awardee"</span>,</span>
+<span id="cb23-21"><a href="#cb23-21" aria-hidden="true" tabindex="-1"></a>    <span class="at">caption =</span> <span class="st">"data sourced from Nobel Prize API"</span>,</span>
+<span id="cb23-22"><a href="#cb23-22" aria-hidden="true" tabindex="-1"></a>    <span class="at">x =</span> <span class="st">"Award Year"</span>,</span>
+<span id="cb23-23"><a href="#cb23-23" aria-hidden="true" tabindex="-1"></a>    <span class="at">y =</span> <span class="cn">NULL</span>,</span>
+<span id="cb23-24"><a href="#cb23-24" aria-hidden="true" tabindex="-1"></a>    <span class="at">color =</span> <span class="st">"Discipline"</span></span>
+<span id="cb23-25"><a href="#cb23-25" aria-hidden="true" tabindex="-1"></a>  ) <span class="sc">+</span></span>
+<span id="cb23-26"><a href="#cb23-26" aria-hidden="true" tabindex="-1"></a>  <span class="fu">theme_standard</span>()</span></code></pre></div><button title="Copy to Clipboard" class="code-copy-button"><i class="bi"></i></button></div>
 </details>
 <div class="cell-output-display">
-<div>
+<div class="quarto-figure quarto-figure-center">
 <figure class="figure">
 <p><img src="Assignment10B-KCH-Codebase_files/figure-html/question-5-plot-1.png" class="img-fluid figure-img" width="672"></p>
+<figcaption>Marie Curie is the Only Multi-Discipline Awardee</figcaption>
 </figure>
 </div>
 </div>
@@ -1422,6 +1447,10 @@ Ooms, Jeroen. 2023. <em>Jsonlite: A Simple and Robust JSON Parser and Generator 
 Wickham, Hadley, Mara Averick, Jennifer Bryan, et al. 2019. <span>“Welcome to the <span class="nocase">tidyverse</span>.”</span> <em>Journal of Open Source Software</em> 4 (43): 1686. <a href="https://doi.org/10.21105/joss.01686">https://doi.org/10.21105/joss.01686</a>.
 </div>
 </div>
+<section id="generative-ai-usage" class="level3">
+<h3 class="anchored" data-anchor-id="generative-ai-usage">Generative AI Usage</h3>
+<p>Generative artificial intelligence was consulted during the development of this pipeline. Specifically, Gemini 3.8 Flash [@google_gemini_2026] via the Google web interface was utilized for constructing defensive data extraction patterns with <code>purrr::map_chr()</code>, troubleshooting date parsing logic, and assisting with the <code>annotate("rect", ...)</code> background shading logic.</p>
+</section>
 </section>
 
 </main>
